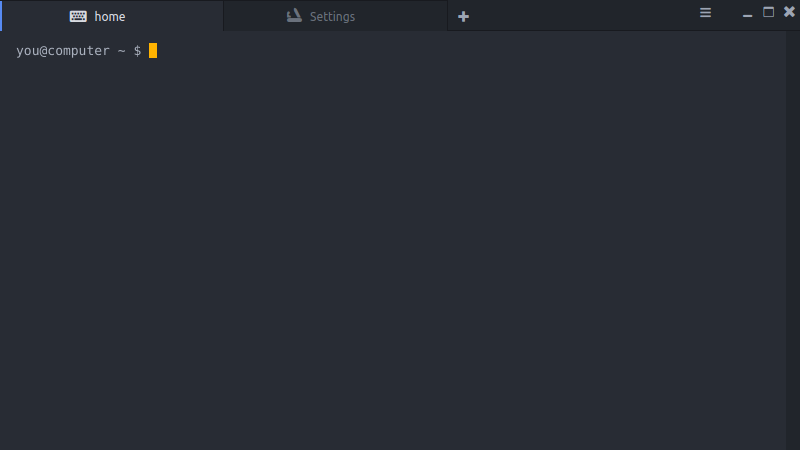
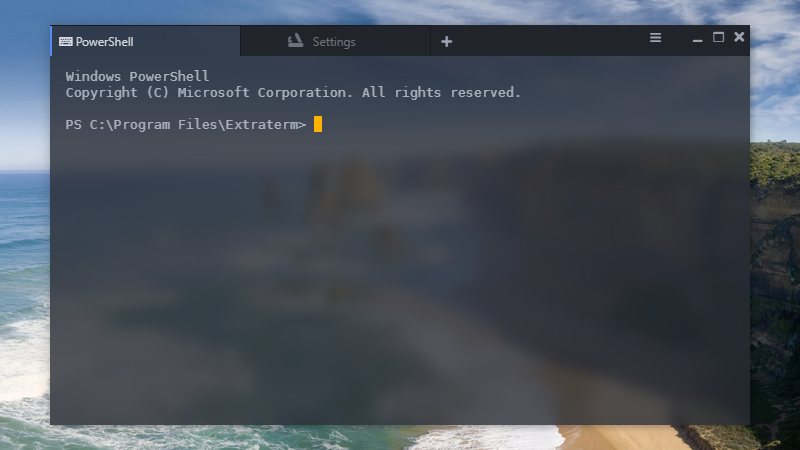
Blog post for 0.47.0.

diff --git a/docs/_posts/2019-11-15-extraterm-v0.47.0-released.md b/docs/_posts/2019-11-15-extraterm-v0.47.0-released.md
@@ -1,0 +1,21 @@
+---
+title: Extraterm v0.47.0 released
+date: 2019-11-15 19:15:00 +0100
+categories: release
+---
+
+New features:
+
+* Added window transparency options for Windows 10. [issue #66](https://github.com/sedwards2009/extraterm/issues/66)
+
+Bug fixes:
+
+* Fixed bug where Extraterm would crash if a command with no output returns a non-zero result code. [issue #225](https://github.com/sedwards2009/extraterm/issues/225) Special thanks go to Greg Resler.
+* Added `.desktop` file for starting Extraterm directly on Linux desktops. [issue #124](https://github.com/sedwards2009/extraterm/issues/124)
+
+Changes:
+
+* Added option to disable hardware acceleration. On some GPU and driver combinations hardware acceleration causes rendering problems. [issue #209](https://github.com/sedwards2009/extraterm/issues/209)
+
+
+Download it from [Github](https://github.com/sedwards2009/extraterm/releases/tag/v0.47.0)
